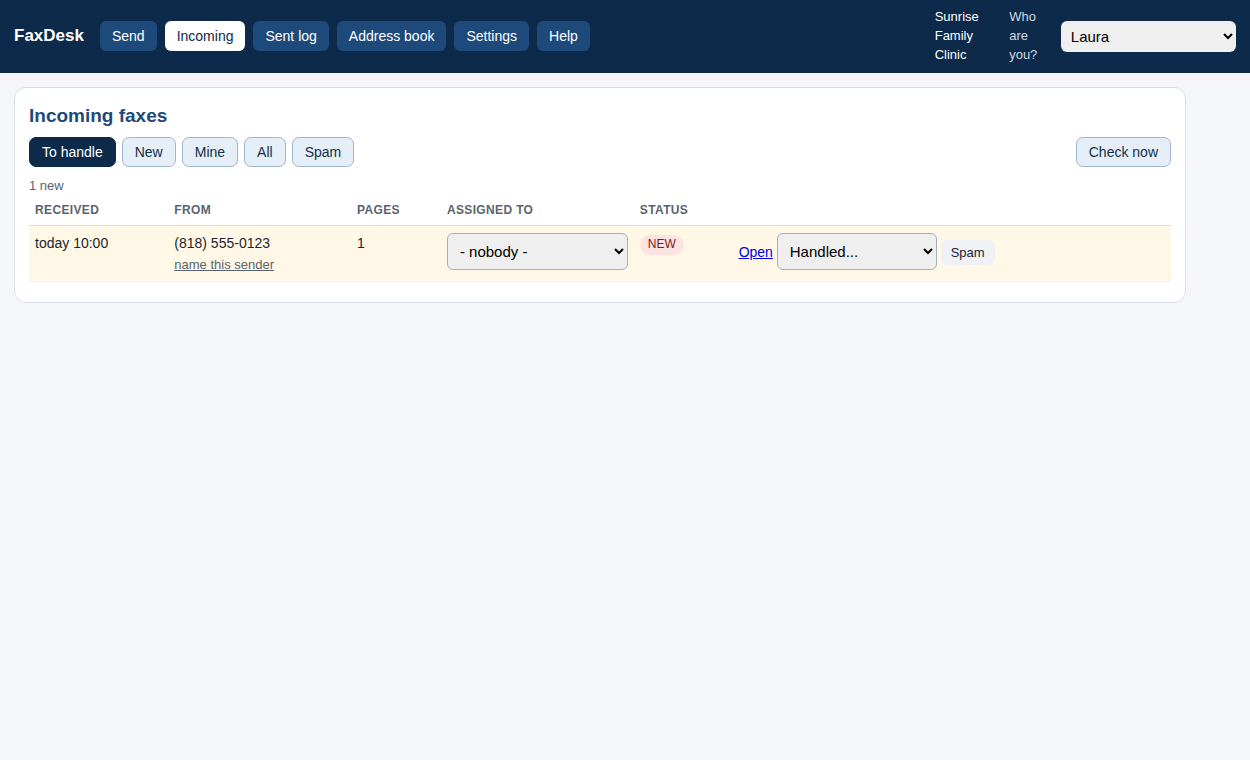
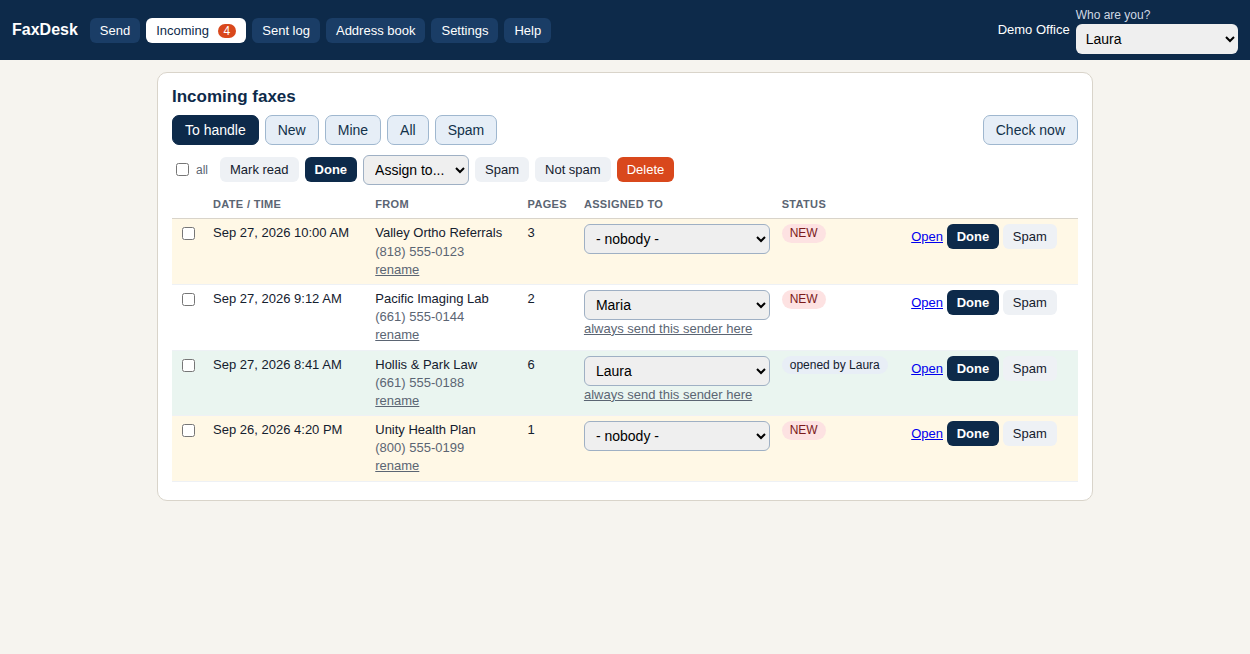
site: tagline, plain-language copy, tour video, new shots, privacy/terms, badge

diff --git a/docs/index.html b/docs/index.html
@@ -1,6 +1,6 @@
 <!doctype html>
-<html lang="en"><head><link rel="icon" href="/favicon.ico" sizes="any"><link rel="icon" href="/favicon.svg" type="image/svg+xml"><link rel="apple-touch-icon" href="/apple-touch-icon.png"><meta charset="utf-8"><script async src="https://www.googletagmanager.com/gtag/js?id=G-N5E5ECY85W"></script><script>window.dataLayer=window.dataLayer||[];function gtag(){dataLayer.push(arguments);}gtag("js",new Date());gtag("config","G-N5E5ECY85W");</script><title>Free Fax Desk - free Windows fax app for your Phone.com fax line</title>
-<meta name="description" content="Free Windows fax app for offices with a Phone.com fax line. See incoming faxes, send PDFs with a cover page, keep a log. Free for one PC, no telemetry, open source."><link rel="canonical" href="https://freefaxdesk.com/"><meta property="og:type" content="website"><meta property="og:site_name" content="Free Fax Desk"><meta property="og:title" content="Free Fax Desk - free Windows fax app for your Phone.com fax line"><meta property="og:description" content="Free Windows fax app for offices with a Phone.com fax line. See incoming faxes, send PDFs with a cover page, keep a log. Free for one PC, no telemetry, open source."><meta property="og:url" content="https://freefaxdesk.com/"><meta property="og:image" content="https://freefaxdesk.com/shots/inbox.png"><meta name="twitter:card" content="summary"><meta name="twitter:title" content="Free Fax Desk - free Windows fax app for your Phone.com fax line"><meta name="twitter:description" content="Free Windows fax app for offices with a Phone.com fax line. See incoming faxes, send PDFs with a cover page, keep a log. Free for one PC, no telemetry, open source."><meta name="viewport" content="width=device-width, initial-scale=1">
+<html lang="en"><head><link rel="icon" href="/favicon.ico" sizes="any"><link rel="icon" href="/favicon.svg" type="image/svg+xml"><link rel="apple-touch-icon" href="/apple-touch-icon.png"><meta charset="utf-8"><script async src="https://www.googletagmanager.com/gtag/js?id=G-N5E5ECY85W"></script><script>window.dataLayer=window.dataLayer||[];function gtag(){dataLayer.push(arguments);}gtag("js",new Date());gtag("config","G-N5E5ECY85W");</script><title>Free Fax Desk - Faxing. Magical - Delightful - Easy</title>
+<meta name="description" content="Magical - Delightful - Easy. Faxing has never been this easy. Faxes show up on your screen with the sender's name on them and a person in charge of each one. Sending is drag, click, done. Works with your Phone.com number today; on another fax service, tell us and we'll set it up for you. Stays on your own computer. Free."><link rel="canonical" href="https://freefaxdesk.com/"><meta property="og:type" content="website"><meta property="og:site_name" content="Free Fax Desk"><meta property="og:title" content="Free Fax Desk - Faxing. Magical - Delightful - Easy"><meta property="og:description" content="Magical - Delightful - Easy. Faxing has never been this easy. Faxes show up on your screen with the sender's name on them and a person in charge of each one. Sending is drag, click, done. Works with your Phone.com number today; on another fax service, tell us and we'll set it up for you. Stays on your own computer. Free."><meta property="og:url" content="https://freefaxdesk.com/"><meta property="og:image" content="https://freefaxdesk.com/shots/inbox.png"><meta name="twitter:card" content="summary_large_image"><meta name="twitter:image" content="https://freefaxdesk.com/shots/inbox.png"><meta name="twitter:title" content="Free Fax Desk - Faxing. Magical - Delightful - Easy"><meta name="twitter:description" content="Magical - Delightful - Easy. Faxing has never been this easy. Faxes show up on your screen with the sender's name on them and a person in charge of each one. Sending is drag, click, done. Works with your Phone.com number today; on another fax service, tell us and we'll set it up for you. Stays on your own computer. Free."><meta name="viewport" content="width=device-width, initial-scale=1">
 
 <link rel="preconnect" href="https://fonts.googleapis.com"><link rel="preconnect" href="https://fonts.gstatic.com" crossorigin><link href="https://fonts.googleapis.com/css2?family=IBM+Plex+Sans:wght@400;500;600;700&family=IBM+Plex+Mono:wght@400;500&display=swap" rel="stylesheet">
 <style>
@@ -32,16 +32,19 @@ blockquote{margin:0;padding:22px;border-left:4px solid var(--verm);background:va
 .faq p{max-width:76ch;background:var(--card);border:1px solid var(--rule);border-radius:6px;padding:14px 18px}
 footer.site{color:var(--slate);font-size:13px;text-align:center;padding:30px 20px;border-top:1px solid var(--rule);margin-top:20px}
 @media(max-width:820px){h1{font-size:34px}.hero .wrap,.guide .wrap,.stakes .g,.g3,.plan,.pricing .g{grid-template-columns:1fr}.nav a.l{display:none}section{padding:40px 0}}
+.tour{display:grid;grid-template-columns:1fr 1fr;gap:22px}.tf{margin:0;background:var(--card);border:1px solid var(--rule);border-radius:6px;overflow:hidden}.tf img{width:100%;height:auto;display:block;border-bottom:1px solid var(--rule)}.tf figcaption{padding:12px 14px;font-size:15px;color:var(--slate)}.tf b{color:var(--ink)}@media(max-width:820px){.tour{grid-template-columns:1fr}}
 </style><script type="application/ld+json">{"@context":"https://schema.org","@type":"SoftwareApplication","name":"Free Fax Desk","alternateName":"FaxDesk","operatingSystem":"Windows 10, Windows 11","applicationCategory":"BusinessApplication","softwareVersion":"1.0.0","url":"https://freefaxdesk.com/","downloadUrl":"https://github.com/FreeFaxDesk/faxdesk/releases/latest","license":"https://opensource.org/licenses/MIT","isAccessibleForFree":true,"offers":[{"@type":"Offer","name":"Free (one PC)","price":"0","priceCurrency":"USD"},{"@type":"Offer","name":"Whole office","price":"99","priceCurrency":"USD","description":"One payment per office, any number of desks"}],"description":"Free Windows fax app for offices with a Phone.com fax line: incoming fax inbox, send PDFs with a cover page, send log. No telemetry.","publisher":{"@type":"Organization","name":"HnS, LLC","url":"https://freefaxdesk.com/","email":"help@freefaxdesk.com"},"sameAs":["https://github.com/FreeFaxDesk/faxdesk"]}</script></head><body>
 <header><div class="nav"><a class="brand" href="/"><svg width="22" height="22" viewBox="0 0 32 32" aria-hidden="true"><rect x="5" y="4" width="18" height="24" rx="1.5" fill="#0d2a4a"/><rect x="21" y="9" width="7" height="8" rx="1.5" fill="#d9481c"/></svg> Free Fax Desk</a><a class="l" href="#how">How it works</a><a class="l" href="#pricing">Pricing</a><a class="l" href="providers.html">Fax services</a><a class="l" href="#faq">FAQ</a><a class="btn sm" href="https://github.com/FreeFaxDesk/faxdesk/releases/latest">Download free</a></div></header>
 
 <section class="hero"><div class="wrap">
-<div><h1>Your Phone.com fax line, on your PC.</h1>
-<p class="sub">Every fax with a name, an owner and proof. Free on one PC. Nothing leaves your computer.</p>
-<p><a class="btn" href="https://github.com/FreeFaxDesk/faxdesk/releases/latest">Download free</a> &nbsp; <a class="btn2" href="#how">See how it works</a></p>
-<p class="mono" style="font-size:13px;color:var(--slate)">Windows 10/11 - one file, no installer - open source (MIT)</p>
+<div><h1>Faxing. Magical - Delightful - Easy</h1>
+<p class="sub">Faxing has never been this easy. Faxes show up on your screen with the sender's name on them and a person in charge of each one. Sending is drag, click, done. Works with your Phone.com fax number today. On a different fax service? <a href="mailto:help@freefaxdesk.com?subject=My%20fax%20service%20is...">Tell us which</a> and we'll set it up for you. Free.</p>
+<p><a class="btn" href="https://github.com/FreeFaxDesk/faxdesk/releases/latest">Download free</a> &nbsp; <a class="btn2" href="#tour">See the two-minute tour</a></p>
+<p class="mono" style="font-size:13px;color:var(--slate)">Windows 10 or 11 - one file to download, nothing to install</p>
+<p style="margin-top:14px"><a href="https://nicklaunches.com/products/free-fax-desk/?utm_source=freefaxdesk.com&utm_medium=badge&utm_campaign=featured-premium" target="_blank" rel="noopener"><img src="https://nicklaunches.com/badges/featured-premium.png" alt="Free Fax Desk on Nick Launches" width="244" height="56" loading="lazy" style="display:inline-block;vertical-align:middle"></a></p>
+
 <p style="background:var(--paper);border:1px solid var(--rule);border-radius:6px;padding:12px 14px;font-size:15px;max-width:56ch"><b>Not on Phone.com?</b> Tell us what you use - <a href="mailto:help@freefaxdesk.com?subject=My%20fax%20service%20is...">help@freefaxdesk.com</a> - and we will see what it takes to add it. <a href="providers.html">Services with an API</a> are first in line.</p></div>
-<div><img class="shot" src="shots/inbox.png" alt="FaxDesk incoming fax inbox with named senders and an assigned row" width="1250" height="760"></div>
+<div><img class="shot" src="shots/inbox.png" alt="Free Fax Desk free Windows fax software: incoming fax inbox with sender names, assigned staff and Done buttons" width="1250" height="654"></div>
 </div></section>
 
 <section class="stakes"><div class="wrap">
@@ -80,11 +83,17 @@ footer.site{color:var(--slate);font-size:13px;text-align:center;padding:30px 20p
 <p><a class="btn" href="https://github.com/FreeFaxDesk/faxdesk/releases/latest">Download free</a></p>
 </div></section>
 
+<section id="tour"><div class="wrap">
+<div class="eyebrow">Two-minute tour</div>
+<h2>Magical - Delightful - Easy, in six screens.</h2>
+<div style="position:relative;padding-top:56.25%;margin:0 0 22px;border:1px solid var(--rule);border-radius:6px;overflow:hidden;background:#14213d"><iframe src="https://www.youtube-nocookie.com/embed/1yoh76nvxoY?rel=0&modestbranding=1" title="Free Fax Desk - 50-second demo" style="position:absolute;inset:0;width:100%;height:100%;border:0" loading="lazy" allow="accelerometer; clipboard-write; encrypted-media; picture-in-picture; web-share" allowfullscreen referrerpolicy="strict-origin-when-cross-origin"></iframe></div>
+<div class="tour"><figure class="tf"><img src="shots/tour/01_inbox.png" alt="Free Fax Desk Windows fax software inbox: incoming faxes listed with date, pages and a new sender shown by number only" loading="lazy" width="1250" height="420"><figcaption><b>1. The inbox</b><br>A new fax is waiting: number only, nobody assigned.</figcaption></figure><figure class="tf"><img src="shots/tour/02_named.png" alt="Free Fax Desk inbox after naming the fax sender once; every later fax from that number shows the name" loading="lazy" width="1250" height="420"><figcaption><b>2. Name the sender</b><br>Type the name once. Every future fax from that number arrives named.</figcaption></figure><figure class="tf"><img src="shots/tour/03_assigned.png" alt="Free Fax Desk incoming fax assigned to a staff member, with the owner shown in the assigned-to column" loading="lazy" width="1250" height="420"><figcaption><b>3. Hand it to a person</b><br>Pick an owner. The row now says who has it; a rule can make it automatic.</figcaption></figure><figure class="tf"><img src="shots/tour/04_send.png" alt="Free Fax Desk send-a-fax screen: recipient from the address book, PDF attached, automatic cover sheet" loading="lazy" width="1250" height="520"><figcaption><b>4. Send a fax</b><br>Type a name from the book, drop a PDF, press Send. The cover page is automatic.</figcaption></figure><figure class="tf"><img src="shots/tour/05_sentlog.png" alt="Free Fax Desk sent log with a confirmation PDF and transmission report for every fax sent" loading="lazy" width="1250" height="420"><figcaption><b>5. Proof in one PDF</b><br>The sent log keeps every fax; Confirmation opens the transmission report with the cover page.</figcaption></figure><figure class="tf"><img src="shots/tour/06_empty.png" alt="Free Fax Desk empty inbox: every incoming fax handled and marked done" loading="lazy" width="1250" height="420"><figcaption><b>6. An empty inbox</b><br>Nothing left to handle, and everyone can see that.</figcaption></figure></div>
+</div></section>
 <section class="body"><div class="wrap">
 <div class="eyebrow">In plain words</div>
 <h2>What Free Fax Desk is</h2>
 <p>Free Fax Desk (the app is called FaxDesk) is a free Windows program that turns a Phone.com internet fax line into a working fax desk on your PC. Incoming faxes appear on screen with the date and time, the sender's name once you have named the number, who owns the fax and whether it has been handled. Junk senders can be blocked with one click and unblocked just as easily. Sending is a PDF, a number from the address book and a confirm; a cover page with your logo and your disclaimer goes on automatically, failed sends retry and tell you why in plain words, and every send produces a confirmation PDF with the transmission report and the cover page.</p>
-<p>Nothing leaves your PC except the fax itself: no cloud account, no telemetry, no update checks. You set how many days to keep incoming and outgoing faxes, and a daily backup folder is kept on the same machine. It is a single EXE with no installer, published under the MIT licence by HnS, LLC, and it works with the Phone.com line you already pay for; other fax services with an API are <a href="providers.html">compared here</a> and coming next.</p>
+<p>Nothing leaves your PC except the fax itself: no cloud account, nothing reporting back, no update checks. You set how many days to keep incoming and outgoing faxes, and a daily backup folder is kept on the same machine. It is a single EXE with no installer, published under the MIT licence by HnS, LLC, and it works with the Phone.com line you already pay for; on a different fax service? <a href="providers.html">See the list</a> or <a href="mailto:help@freefaxdesk.com?subject=My%20fax%20service%20is...">email us which one</a> and we'll set it up for you.</p>
 </div></section>
 
 <section id="pricing" class="pricing"><div class="wrap">
@@ -111,5 +120,5 @@ footer.site{color:var(--slate);font-size:13px;text-align:center;padding:30px 20p
 
 </div></section>
 
-<footer class="site">Free Fax Desk / FaxDesk is a product of HnS, LLC, a Wyoming company. MIT licence. <a href="signing.html">Code signing policy</a>. <a href="https://buymeacoffee.com/freefaxdesk" target="_blank" rel="noopener">Buy us a coffee</a>. Provided as is, without warranty of any kind. Not affiliated with Phone.com.</footer>
+<footer class="site"><a href="office.html">Whole office</a> - <a href="providers.html">Fax services</a> - <a href="setup.html">Get your Phone.com key</a> - <a href="privacy.html">Privacy</a> - <a href="terms.html">Terms</a> - <a href="signing.html">Code signing</a> - <a href="https://github.com/FreeFaxDesk/faxdesk">GitHub</a> &middot; <a href="https://www.youtube.com/@FreeFaxDesk">YouTube</a><br>Free Fax Desk / FaxDesk is a product of HnS, LLC, a Wyoming company. MIT licence. <a href="https://buymeacoffee.com/freefaxdesk" target="_blank" rel="noopener">Buy us a coffee</a>. Provided as is, without warranty of any kind. Not affiliated with Phone.com.</footer>
 </body></html>

diff --git a/docs/providers.html b/docs/providers.html
@@ -1,4 +1,4 @@
-<!doctype html><html lang="en"><head><link rel="icon" href="/favicon.ico" sizes="any"><link rel="icon" href="/favicon.svg" type="image/svg+xml"><link rel="apple-touch-icon" href="/apple-touch-icon.png"><meta charset="utf-8"><link href="https://fonts.googleapis.com/css2?family=IBM+Plex+Sans:wght@400;500;600;700&display=swap" rel="stylesheet"><script async src="https://www.googletagmanager.com/gtag/js?id=G-N5E5ECY85W"></script><script>window.dataLayer=window.dataLayer||[];function gtag(){dataLayer.push(arguments);}gtag("js",new Date());gtag("config","G-N5E5ECY85W");</script><title>Internet fax services with an API - compared for Free Fax Desk</title><meta name="description" content="Which internet fax services expose an API (Phone.com, SRFax, eFax, RingCentral and more), what they cost, and which ones Free Fax Desk supports or plans to."><link rel="canonical" href="https://freefaxdesk.com/providers"><meta property="og:type" content="website"><meta property="og:site_name" content="Free Fax Desk"><meta property="og:title" content="Internet fax services with an API - compared for Free Fax Desk"><meta property="og:description" content="Which internet fax services expose an API (Phone.com, SRFax, eFax, RingCentral and more), what they cost, and which ones Free Fax Desk supports or plans to."><meta property="og:url" content="https://freefaxdesk.com/providers"><meta property="og:image" content="https://freefaxdesk.com/apple-touch-icon.png"><meta name="twitter:card" content="summary"><meta name="twitter:title" content="Internet fax services with an API - compared for Free Fax Desk"><meta name="twitter:description" content="Which internet fax services expose an API (Phone.com, SRFax, eFax, RingCentral and more), what they cost, and which ones Free Fax Desk supports or plans to."><meta name="viewport" content="width=device-width, initial-scale=1">
+<!doctype html><html lang="en"><head><link rel="icon" href="/favicon.ico" sizes="any"><link rel="icon" href="/favicon.svg" type="image/svg+xml"><link rel="apple-touch-icon" href="/apple-touch-icon.png"><meta charset="utf-8"><link href="https://fonts.googleapis.com/css2?family=IBM+Plex+Sans:wght@400;500;600;700&display=swap" rel="stylesheet"><script async src="https://www.googletagmanager.com/gtag/js?id=G-N5E5ECY85W"></script><script>window.dataLayer=window.dataLayer||[];function gtag(){dataLayer.push(arguments);}gtag("js",new Date());gtag("config","G-N5E5ECY85W");</script><title>Internet fax services with an API - compared for Free Fax Desk</title><meta name="description" content="Which internet fax services expose an API (Phone.com, SRFax, eFax, RingCentral and more), what they cost, and which ones Free Fax Desk supports or plans to."><link rel="canonical" href="https://freefaxdesk.com/providers"><meta property="og:type" content="website"><meta property="og:site_name" content="Free Fax Desk"><meta property="og:title" content="Internet fax services with an API - compared for Free Fax Desk"><meta property="og:description" content="Which internet fax services expose an API (Phone.com, SRFax, eFax, RingCentral and more), what they cost, and which ones Free Fax Desk supports or plans to."><meta property="og:url" content="https://freefaxdesk.com/providers"><meta property="og:image" content="https://freefaxdesk.com/apple-touch-icon.png"><meta name="twitter:card" content="summary_large_image"><meta name="twitter:title" content="Internet fax services with an API - compared for Free Fax Desk"><meta name="twitter:description" content="Which internet fax services expose an API (Phone.com, SRFax, eFax, RingCentral and more), what they cost, and which ones Free Fax Desk supports or plans to."><meta name="viewport" content="width=device-width, initial-scale=1">
 <style>body{margin:0;font:16px/1.55 "IBM Plex Sans",Segoe UI,Arial,sans-serif;color:#14202e}header{background:#0d2a4a;color:#fff;padding:14px 20px}header a{color:#cfd8e3;text-decoration:none}.wrap{max-width:900px;margin:0 auto;padding:30px 20px}h1{color:#1d4a7a}table{width:100%;border-collapse:collapse;font-size:15px}th{text-align:left;font-size:12px;color:#5a6470;text-transform:uppercase;padding:8px 6px;border-bottom:1px solid #d8dee6}td{padding:8px 6px;border-bottom:1px solid #eef1f5;vertical-align:top}.tag{display:inline-block;border-radius:10px;padding:1px 9px;font-size:12px;font-weight:700}.ok{background:#dff3ea;color:#0b4a37}.plan{background:#e8eef6;color:#1d4a7a}.ver{background:#fff3cd;color:#5a4400}.no{background:#fde2e2;color:#7a1a1a}.btn{display:inline-block;background:#d9481c;color:#fff;text-decoration:none;padding:12px 22px;border-radius:8px;font-weight:700}footer{color:#5a6470;font-size:13px;text-align:center;padding:30px;border-top:1px solid #d8dee6}</style></head>
 <body><header><a href="/">Free Fax Desk</a></header><div class="wrap">
 <h1>Which fax services work with FaxDesk</h1>
@@ -19,4 +19,4 @@
 </tbody></table>
 <h2>Your service is not here?</h2><p>Tell us which one and we will look at its instructions and get it set up for you. Most take a week.</p>
 <p><a class="btn" href="mailto:help@freefaxdesk.com?subject=Add%20my%20fax%20service&body=My%20fax%20service%20is%3A%20%0AMy%20office%20type%3A%20%0AHow%20many%20faxes%20a%20week%3A%20">Add my fax service</a></p>
-</div><footer>Free Fax Desk / FaxDesk is a product of HnS, LLC, a Wyoming company. MIT licence. <a href="https://buymeacoffee.com/freefaxdesk" target="_blank" rel="noopener">Buy us a coffee</a>. Not affiliated with Phone.com or any service named above. Prices are the services' own and change.</footer></body></html>
+</div><footer>Free Fax Desk / FaxDesk is a product of HnS, LLC, a Wyoming company. MIT licence. <a href="privacy.html">Privacy</a> - <a href="terms.html">Terms</a> - <a href="signing.html">Code signing</a> - <a href="https://www.youtube.com/@FreeFaxDesk">YouTube</a>. Not affiliated with Phone.com or any service named above. Prices are the services' own and change.</footer></body></html>

diff --git a/docs/office.html b/docs/office.html
@@ -1,4 +1,4 @@
-<!doctype html><html lang="en"><head><link rel="icon" href="/favicon.ico" sizes="any"><link rel="icon" href="/favicon.svg" type="image/svg+xml"><link rel="apple-touch-icon" href="/apple-touch-icon.png"><meta charset="utf-8"><link href="https://fonts.googleapis.com/css2?family=IBM+Plex+Sans:wght@400;500;600;700&display=swap" rel="stylesheet"><script async src="https://www.googletagmanager.com/gtag/js?id=G-N5E5ECY85W"></script><script>window.dataLayer=window.dataLayer||[];function gtag(){dataLayer.push(arguments);}gtag("js",new Date());gtag("config","G-N5E5ECY85W");</script><title>Whole office plan - Free Fax Desk</title><meta name="description" content="Open Free Fax Desk to every desk on your office network: one fax line, one shared inbox, one send log. $99 one time per office."><link rel="canonical" href="https://freefaxdesk.com/office"><meta property="og:type" content="website"><meta property="og:site_name" content="Free Fax Desk"><meta property="og:title" content="Whole office plan - Free Fax Desk"><meta property="og:description" content="Open Free Fax Desk to every desk on your office network: one fax line, one shared inbox, one send log. $99 one time per office."><meta property="og:url" content="https://freefaxdesk.com/office"><meta property="og:image" content="https://freefaxdesk.com/apple-touch-icon.png"><meta name="twitter:card" content="summary"><meta name="twitter:title" content="Whole office plan - Free Fax Desk"><meta name="twitter:description" content="Open Free Fax Desk to every desk on your office network: one fax line, one shared inbox, one send log. $99 one time per office."><meta name="viewport" content="width=device-width, initial-scale=1">
+<!doctype html><html lang="en"><head><link rel="icon" href="/favicon.ico" sizes="any"><link rel="icon" href="/favicon.svg" type="image/svg+xml"><link rel="apple-touch-icon" href="/apple-touch-icon.png"><meta charset="utf-8"><link href="https://fonts.googleapis.com/css2?family=IBM+Plex+Sans:wght@400;500;600;700&display=swap" rel="stylesheet"><script async src="https://www.googletagmanager.com/gtag/js?id=G-N5E5ECY85W"></script><script>window.dataLayer=window.dataLayer||[];function gtag(){dataLayer.push(arguments);}gtag("js",new Date());gtag("config","G-N5E5ECY85W");</script><title>Whole office plan - Free Fax Desk</title><meta name="description" content="Open Free Fax Desk to every desk on your office network: one fax line, one shared inbox, one send log. $99 one time per office."><link rel="canonical" href="https://freefaxdesk.com/office"><meta property="og:type" content="website"><meta property="og:site_name" content="Free Fax Desk"><meta property="og:title" content="Whole office plan - Free Fax Desk"><meta property="og:description" content="Open Free Fax Desk to every desk on your office network: one fax line, one shared inbox, one send log. $99 one time per office."><meta property="og:url" content="https://freefaxdesk.com/office"><meta property="og:image" content="https://freefaxdesk.com/apple-touch-icon.png"><meta name="twitter:card" content="summary_large_image"><meta name="twitter:title" content="Whole office plan - Free Fax Desk"><meta name="twitter:description" content="Open Free Fax Desk to every desk on your office network: one fax line, one shared inbox, one send log. $99 one time per office."><meta name="viewport" content="width=device-width, initial-scale=1">
 <style>body{margin:0;font:16px/1.55 "IBM Plex Sans",Segoe UI,Arial,sans-serif;color:#14202e}header{background:#0d2a4a;color:#fff;padding:14px 20px}header a{color:#cfd8e3;text-decoration:none}.wrap{max-width:760px;margin:0 auto;padding:30px 20px}h1{color:#1d4a7a}.btn{display:inline-block;background:#d9481c;color:#fff;text-decoration:none;padding:12px 22px;border-radius:8px;font-weight:700}.price{font-size:30px;font-weight:700}ul{padding-left:22px}footer{color:#5a6470;font-size:13px;text-align:center;padding:30px;border-top:1px solid #d8dee6}</style></head>
 <body><header><a href="/">Free Fax Desk</a></header><div class="wrap">
 <h1>Whole office</h1><p>Free FaxDesk runs on one PC. The whole-office plan opens that same page to every desk on your office network - one fax line, one inbox everyone sees, one send log, names on who did what.</p>
@@ -7,4 +7,4 @@
 <h2>How the key works</h2><p>You get a key tied to your email. FaxDesk checks it on your PC; nothing phones home, nothing is collected. Lose it? Email us and we send it again.</p>
 <p><a class="btn" href="mailto:help@freefaxdesk.com?subject=Whole%20office%20licence">Get a key</a></p>
 <h2>Questions</h2><p><b>Do other desks need Python or the EXE?</b> No - just a browser on the office network.</p><p><b>Is it safe to open on the network?</b> It is your office LAN only; FaxDesk is never reachable from the internet unless you make it so. No password in this version - the same trust as a shared fax machine.</p>
-</div><footer>Free Fax Desk / FaxDesk is a product of HnS, LLC, a Wyoming company. MIT licence. <a href="https://buymeacoffee.com/freefaxdesk" target="_blank" rel="noopener">Buy us a coffee</a>. Not affiliated with Phone.com.</footer></body></html>
+</div><footer>Free Fax Desk / FaxDesk is a product of HnS, LLC, a Wyoming company. MIT licence. <a href="privacy.html">Privacy</a> - <a href="terms.html">Terms</a> - <a href="signing.html">Code signing</a> - <a href="https://www.youtube.com/@FreeFaxDesk">YouTube</a>. Not affiliated with Phone.com.</footer></body></html>

diff --git a/docs/privacy.html b/docs/privacy.html
@@ -1,0 +1,17 @@
+<!doctype html><html lang="en"><head><link rel="icon" href="/favicon.ico" sizes="any"><link rel="icon" href="/favicon.svg" type="image/svg+xml"><meta charset="utf-8"><link href="https://fonts.googleapis.com/css2?family=IBM+Plex+Sans:wght@400;500;600;700&display=swap" rel="stylesheet"><script async src="https://www.googletagmanager.com/gtag/js?id=G-N5E5ECY85W"></script><script>window.dataLayer=window.dataLayer||[];function gtag(){dataLayer.push(arguments);}gtag("js",new Date());gtag("config","G-N5E5ECY85W");</script><title>Privacy policy - Free Fax Desk</title><meta name="description" content="FaxDesk sends nothing to us: no account, no telemetry. Your faxes stay on your PC. What the website collects and how licence keys work."><link rel="canonical" href="https://freefaxdesk.com/privacy"><meta property="og:title" content="Privacy policy - Free Fax Desk"><meta property="og:description" content="FaxDesk sends nothing to us: no account, no telemetry. Your faxes stay on your PC. What the website collects and how licence keys work."><meta property="og:url" content="https://freefaxdesk.com/privacy"><meta name="viewport" content="width=device-width, initial-scale=1">
+<style>body{margin:0;font:16px/1.55 "IBM Plex Sans",Segoe UI,Arial,sans-serif;color:#14202e}header{background:#0d2a4a;color:#fff;padding:14px 20px}header a{color:#cfd8e3;text-decoration:none}.wrap{max-width:760px;margin:0 auto;padding:30px 20px}h1{color:#1d4a7a}ul{padding-left:22px}footer{color:#5a6470;font-size:13px;text-align:center;padding:30px;border-top:1px solid #d8dee6}code{background:#eef1f5;padding:1px 5px;border-radius:4px}</style></head>
+<body><header><b>Free Fax Desk</b> &nbsp; <a href="index.html">Home</a> &nbsp; <a href="office.html">Whole office</a> &nbsp; <a href="providers.html">Fax services</a> &nbsp; <a href="setup.html">Setup</a></header><div class="wrap">
+<h1>Privacy policy</h1>
+<p class="muted">Effective 2026-09-27. Applies to the FaxDesk software and to freefaxdesk.com. Published by HnS, LLC, a Wyoming company.</p>
+<h2>The software (FaxDesk)</h2>
+<p><b>FaxDesk sends nothing to us.</b> It has no account, no telemetry, no crash reporting, no update check and no analytics. The only network connection it makes is to the fax provider you configure (today, Phone.com), and only to send and receive your faxes and to list the accounts and numbers your own API token can see.</p>
+<p><b>Your data stays on your PC.</b> Received faxes, sent faxes, cover pages, confirmations, your address book, sender names, assignments and the audit log are files in a folder on the computer running FaxDesk (by default <code>%LOCALAPPDATA%\FaxDesk</code>). Your provider API token is stored there too, sealed with Windows data protection for your Windows account. Retention is a number of days you set; FaxDesk deletes older faxes on that schedule and keeps a daily backup in the same folder. If you turn on the whole-office option, other PCs on your own office network read that same folder through FaxDesk; nothing is copied to the internet.</p>
+<p><b>Your fax provider has its own copy.</b> Faxes pass through your provider (for example Phone.com) under their terms and, for healthcare offices, under the Business Associate Agreement between you and them. FaxDesk does not delete anything at the provider.</p>
+<p><b>We cannot see your faxes.</b> HnS, LLC has no access to any FaxDesk installation, its files or its provider account. If you email us for support, do not send us faxes, patient information or your API token; we will ask you to remove them.</p>
+<h2>The website (freefaxdesk.com)</h2>
+<p>The site is static pages hosted on GitHub Pages behind Cloudflare. We use Google Analytics 4 to count visits and see which pages are read; it sets cookies in your browser and Google processes that data under its own terms. You can block it with any content blocker and the site works the same. Downloads come from GitHub, which has its own privacy policy. The demo video on the home page is embedded from YouTube in its privacy-enhanced mode, which sets no cookies until you press play. If you email help@freefaxdesk.com we keep the email to answer it. The "Buy us a coffee" link goes to a third-party site with its own policy.</p>
+<h2>Licence keys</h2>
+<p>A whole-office licence key is a code derived from the email address you give us when you buy it. We keep that email address and the date so we can re-issue the key if you lose it. Nothing else is collected and the key is never checked online.</p>
+<h2>Children</h2><p>The software and site are for businesses and are not directed at children under 13.</p>
+<h2>Changes and contact</h2><p>If this policy changes, the new version is posted here with a new effective date. Questions: <a href="mailto:help@freefaxdesk.com">help@freefaxdesk.com</a>.</p>
+</div><footer>Free Fax Desk / FaxDesk is a product of HnS, LLC, a Wyoming company. MIT licence. <a href="privacy.html">Privacy</a> - <a href="terms.html">Terms</a> - <a href="signing.html">Code signing</a> - <a href="https://www.youtube.com/@FreeFaxDesk">YouTube</a>. Not affiliated with Phone.com.</footer></body></html>

diff --git a/docs/signing.html b/docs/signing.html
@@ -1,4 +1,4 @@
-<!doctype html><html lang="en"><head><link rel="icon" href="/favicon.ico" sizes="any"><link rel="icon" href="/favicon.svg" type="image/svg+xml"><meta charset="utf-8"><link href="https://fonts.googleapis.com/css2?family=IBM+Plex+Sans:wght@400;500;600;700&display=swap" rel="stylesheet"><script async src="https://www.googletagmanager.com/gtag/js?id=G-N5E5ECY85W"></script><script>window.dataLayer=window.dataLayer||[];function gtag(){dataLayer.push(arguments);}gtag("js",new Date());gtag("config","G-N5E5ECY85W");</script><title>Code signing policy - Free Fax Desk</title><meta name="description" content="How Free Fax Desk releases are built and signed, and how to verify a downloaded FaxDesk.exe."><link rel="canonical" href="https://freefaxdesk.com/signing"><meta property="og:type" content="website"><meta property="og:site_name" content="Free Fax Desk"><meta property="og:title" content="Code signing policy - Free Fax Desk"><meta property="og:description" content="How Free Fax Desk releases are built and signed, and how to verify a downloaded FaxDesk.exe."><meta property="og:url" content="https://freefaxdesk.com/signing"><meta property="og:image" content="https://freefaxdesk.com/apple-touch-icon.png"><meta name="twitter:card" content="summary"><meta name="twitter:title" content="Code signing policy - Free Fax Desk"><meta name="twitter:description" content="How Free Fax Desk releases are built and signed, and how to verify a downloaded FaxDesk.exe."><meta name="viewport" content="width=device-width, initial-scale=1">
+<!doctype html><html lang="en"><head><link rel="icon" href="/favicon.ico" sizes="any"><link rel="icon" href="/favicon.svg" type="image/svg+xml"><meta charset="utf-8"><link href="https://fonts.googleapis.com/css2?family=IBM+Plex+Sans:wght@400;500;600;700&display=swap" rel="stylesheet"><script async src="https://www.googletagmanager.com/gtag/js?id=G-N5E5ECY85W"></script><script>window.dataLayer=window.dataLayer||[];function gtag(){dataLayer.push(arguments);}gtag("js",new Date());gtag("config","G-N5E5ECY85W");</script><title>Code signing policy - Free Fax Desk</title><meta name="description" content="How Free Fax Desk releases are built and signed, and how to verify a downloaded FaxDesk.exe."><link rel="canonical" href="https://freefaxdesk.com/signing"><meta property="og:type" content="website"><meta property="og:site_name" content="Free Fax Desk"><meta property="og:title" content="Code signing policy - Free Fax Desk"><meta property="og:description" content="How Free Fax Desk releases are built and signed, and how to verify a downloaded FaxDesk.exe."><meta property="og:url" content="https://freefaxdesk.com/signing"><meta property="og:image" content="https://freefaxdesk.com/apple-touch-icon.png"><meta name="twitter:card" content="summary_large_image"><meta name="twitter:title" content="Code signing policy - Free Fax Desk"><meta name="twitter:description" content="How Free Fax Desk releases are built and signed, and how to verify a downloaded FaxDesk.exe."><meta name="viewport" content="width=device-width, initial-scale=1">
 <style>body{margin:0;font:16px/1.55 "IBM Plex Sans",Segoe UI,Arial,sans-serif;color:#14202e}header{background:#0d2a4a;color:#fff;padding:14px 20px}header a{color:#cfd8e3;text-decoration:none}.wrap{max-width:760px;margin:0 auto;padding:30px 20px}h1{color:#1d4a7a}ul{padding-left:22px}footer{color:#5a6470;font-size:13px;text-align:center;padding:30px;border-top:1px solid #d8dee6}code{background:#eef1f5;padding:1px 5px;border-radius:4px}</style></head>
 <body><header><b>Free Fax Desk</b> &nbsp; <a href="index.html">Home</a></header><div class="wrap">
 <h1>Code signing policy</h1>
@@ -6,4 +6,4 @@
 <h2>Roles</h2><ul><li>Committers and reviewers: the FreeFaxDesk GitHub organization members.</li><li>Approvers: the project maintainer (HnS, LLC).</li></ul>
 <h2>Privacy policy</h2><p>FaxDesk does not transfer any information to any service other than the fax provider the user configures (for example Phone.com), and only to send and receive that user's faxes. The program never phones home: no telemetry, no update checks, no analytics. The licence key for the whole-office option is verified on the user's own PC.</p>
 <h2>Verifying a download</h2><p>Right-click <code>FaxDesk.exe</code> &gt; Properties &gt; Digital Signatures. The signer should read SignPath Foundation, and the file hash should match the one on the GitHub Release.</p>
-</div><footer>Free Fax Desk / FaxDesk is a product of HnS, LLC, a Wyoming company. MIT licence. Not affiliated with Phone.com.</footer></body></html>
+</div><footer>Free Fax Desk / FaxDesk is a product of HnS, LLC, a Wyoming company. MIT licence. <a href="privacy.html">Privacy</a> - <a href="terms.html">Terms</a> - <a href="signing.html">Code signing</a> - <a href="https://www.youtube.com/@FreeFaxDesk">YouTube</a>. Not affiliated with Phone.com.</footer></body></html>

diff --git a/docs/terms.html b/docs/terms.html
@@ -1,0 +1,18 @@
+<!doctype html><html lang="en"><head><link rel="icon" href="/favicon.ico" sizes="any"><link rel="icon" href="/favicon.svg" type="image/svg+xml"><meta charset="utf-8"><link href="https://fonts.googleapis.com/css2?family=IBM+Plex+Sans:wght@400;500;600;700&display=swap" rel="stylesheet"><script async src="https://www.googletagmanager.com/gtag/js?id=G-N5E5ECY85W"></script><script>window.dataLayer=window.dataLayer||[];function gtag(){dataLayer.push(arguments);}gtag("js",new Date());gtag("config","G-N5E5ECY85W");</script><title>Terms of use - Free Fax Desk</title><meta name="description" content="MIT licence, as-is and no warranty, one PC free, whole-office licence per location, refunds, support."><link rel="canonical" href="https://freefaxdesk.com/terms"><meta property="og:title" content="Terms of use - Free Fax Desk"><meta property="og:description" content="MIT licence, as-is and no warranty, one PC free, whole-office licence per location, refunds, support."><meta property="og:url" content="https://freefaxdesk.com/terms"><meta name="viewport" content="width=device-width, initial-scale=1">
+<style>body{margin:0;font:16px/1.55 "IBM Plex Sans",Segoe UI,Arial,sans-serif;color:#14202e}header{background:#0d2a4a;color:#fff;padding:14px 20px}header a{color:#cfd8e3;text-decoration:none}.wrap{max-width:760px;margin:0 auto;padding:30px 20px}h1{color:#1d4a7a}ul{padding-left:22px}footer{color:#5a6470;font-size:13px;text-align:center;padding:30px;border-top:1px solid #d8dee6}code{background:#eef1f5;padding:1px 5px;border-radius:4px}</style></head>
+<body><header><b>Free Fax Desk</b> &nbsp; <a href="index.html">Home</a> &nbsp; <a href="office.html">Whole office</a> &nbsp; <a href="providers.html">Fax services</a> &nbsp; <a href="setup.html">Setup</a></header><div class="wrap">
+<h1>Terms of use</h1>
+<p class="muted">Effective 2026-09-27. HnS, LLC, a Wyoming company ("we").</p>
+<h2>The software</h2>
+<p>FaxDesk is open-source software released under the <a href="https://github.com/FreeFaxDesk/faxdesk/blob/main/LICENSE">MIT licence</a>. The licence says it plainly and we repeat it here: the software is provided "as is", without warranty of any kind, express or implied, and in no event are we liable for any claim, damages or other liability arising from it or its use. You are responsible for how you use it, for the accuracy of the numbers you fax to, for your provider account and its charges, and for compliance with the laws that apply to your office (including, for healthcare offices, your own HIPAA obligations and your agreement with your fax provider).</p>
+<p>FaxDesk is not affiliated with, endorsed by or supported by Phone.com or any other fax service. Their terms govern your account with them.</p>
+<h2>The whole-office licence</h2>
+<p>The free version is licensed for use on one PC per office. The whole-office option, which opens FaxDesk to other desks on your office network, requires a licence key. A key is sold per office location for a one-time fee and may be used on any number of desks at that location. Keys are not transferable to another business. If you lose a key we will re-issue it to the email address it was bought with. Because the software is open source, the key is a convenience and a fair-dealing arrangement, not copy protection; please respect it.</p>
+<p>Refunds: if the whole-office option does not work in your office within 30 days of purchase and we cannot make it work, we refund the fee.</p>
+<h2>The website</h2>
+<p>Content on freefaxdesk.com is provided for information. Prices and features of third-party services listed on the site (for example on the fax services page) are those services' own and change without notice; check with them before buying. We may change or take down any page at any time.</p>
+<h2>Support</h2>
+<p>Support is by email at <a href="mailto:help@freefaxdesk.com">help@freefaxdesk.com</a>, on a best-effort basis, with no response-time commitment. Bug reports and code contributions are welcome on GitHub.</p>
+<h2>Governing law</h2>
+<p>These terms are governed by the laws of the State of Wyoming, USA. If any part is unenforceable the rest stands.</p>
+</div><footer>Free Fax Desk / FaxDesk is a product of HnS, LLC, a Wyoming company. MIT licence. <a href="privacy.html">Privacy</a> - <a href="terms.html">Terms</a> - <a href="signing.html">Code signing</a> - <a href="https://www.youtube.com/@FreeFaxDesk">YouTube</a>. Not affiliated with Phone.com.</footer></body></html>

diff --git a/docs/setup.html b/docs/setup.html
@@ -32,4 +32,4 @@
 <li><b>Inbox empty but faxes arrive by email</b>: the fax number in Settings does not match the line, digit for digit.</li>
 </ul>
 <p>Stuck? <a href="mailto:help@freefaxdesk.com">help@freefaxdesk.com</a>. Do not email us your token.</p>
-</div><footer>Free Fax Desk / FaxDesk is a product of HnS, LLC, a Wyoming company. MIT licence. Not affiliated with Phone.com.</footer></body></html>
+</div><footer>Free Fax Desk / FaxDesk is a product of HnS, LLC, a Wyoming company. MIT licence. <a href="privacy.html">Privacy</a> - <a href="terms.html">Terms</a> - <a href="signing.html">Code signing</a> - <a href="https://www.youtube.com/@FreeFaxDesk">YouTube</a>. Not affiliated with Phone.com.</footer></body></html>

diff --git a/README.md b/README.md
@@ -1,6 +1,6 @@
 # Free Fax Desk (FaxDesk)
 
-A small free program that turns a **Phone.com fax line** into a fax desk on your PC.
+Faxing. Magical - Delightful - Easy A small free program that puts your **Phone.com fax line** on your PC.
 Drop a PDF, it goes out with a cover sheet. Incoming faxes land on the page, get assigned to a person and marked handled.
 Everything stays on your computer. No cloud account, no telemetry.
 
